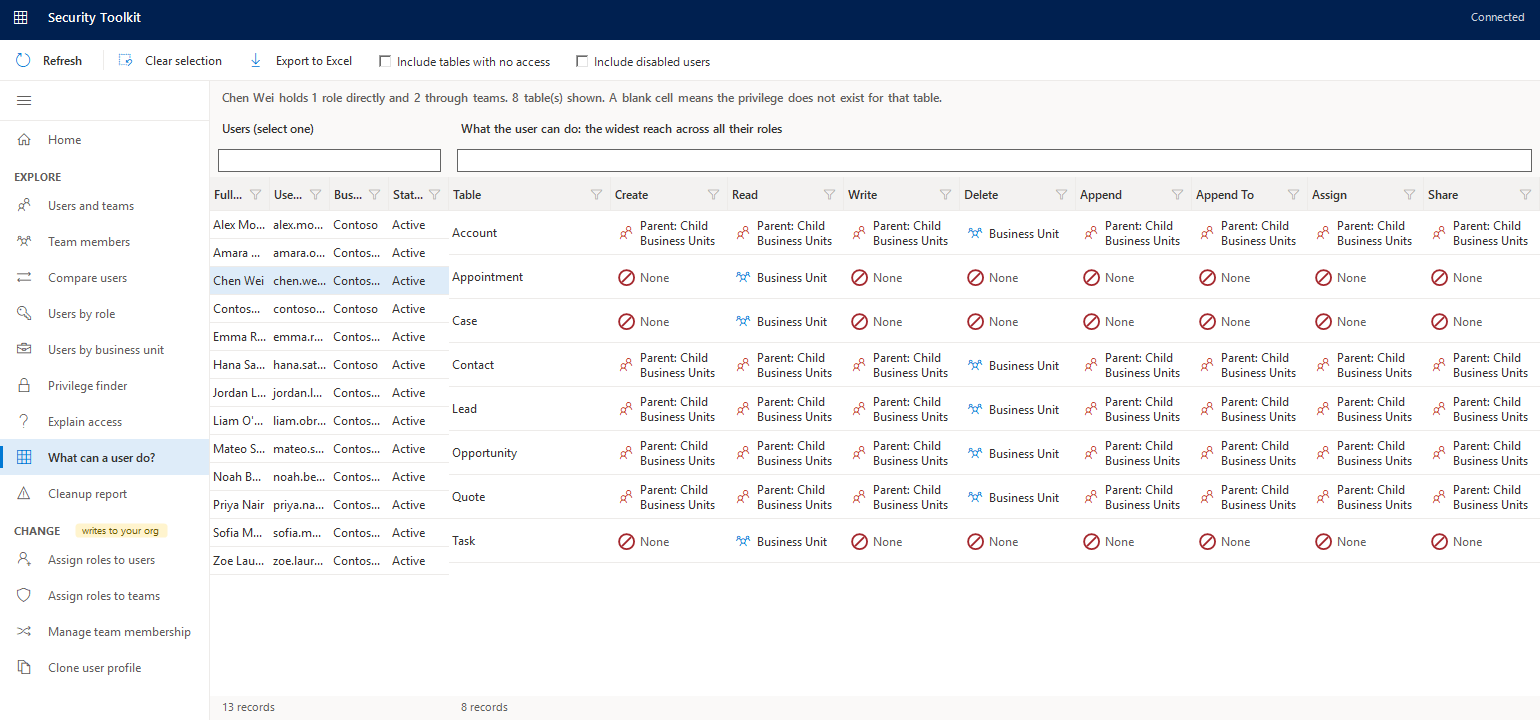
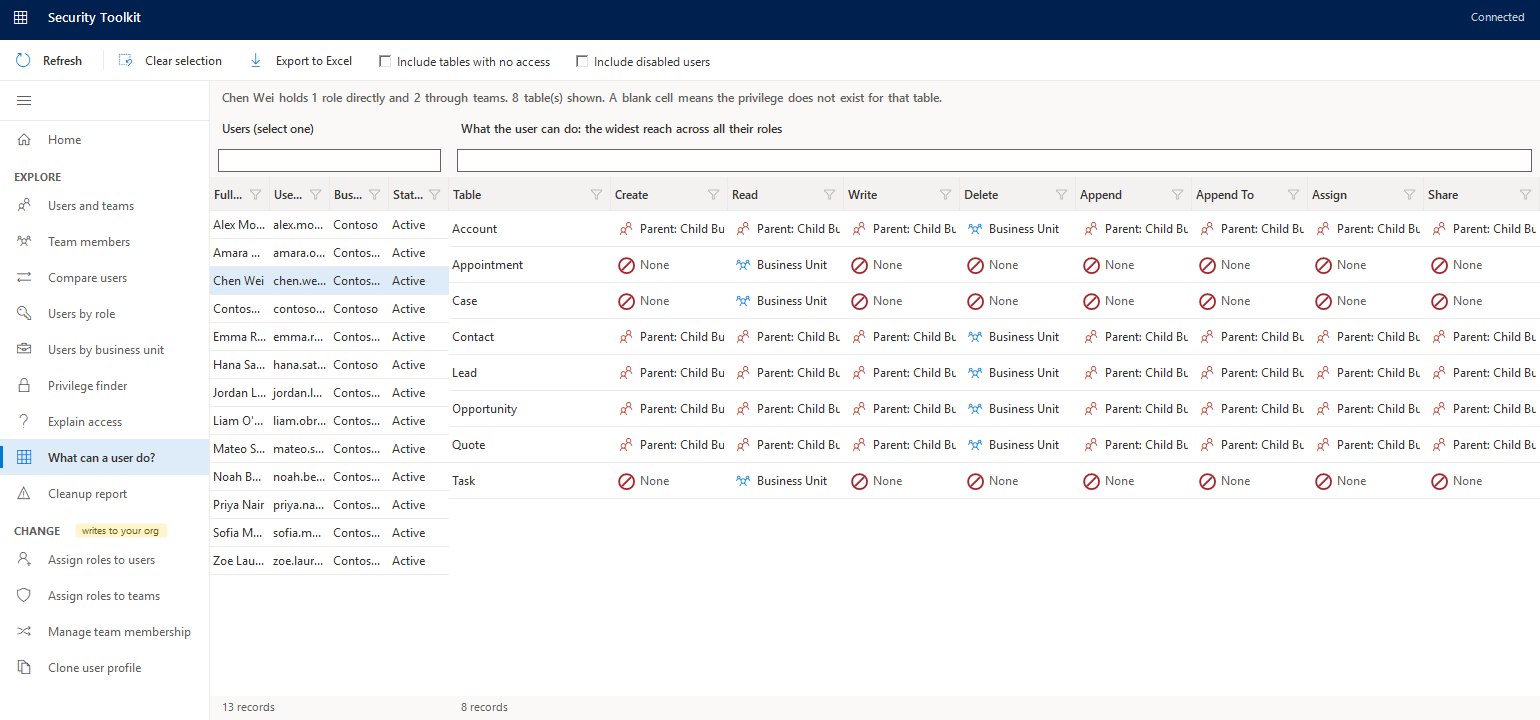
What can a user do?: one-line cells clipped at the cell edge like Dynamics 365, full text in the hover tip

diff --git a/SecurityToolkit.Tests/UserAccessMatrixViewTests.cs b/SecurityToolkit.Tests/UserAccessMatrixViewTests.cs
@@ -267,7 +267,7 @@ namespace SecurityToolkit.Tests
         }
 
         [Fact]
-        public void TheLongestLabelWrapsInsideTheCell_RatherThanSpillingIntoTheNextOne()
+        public void TheLongestLabelStaysOnOneLine_AndIsClippedAtTheCellEdge()
         {
             Sta.Run(() =>
             {
@@ -277,7 +277,7 @@ namespace SecurityToolkit.Tests
                     graphics.Clear(Color.White);
                     DepthCell.Paint(graphics, new Rectangle(0, 0, 118, 44), "Parent: Child Business Units", selected: false);
 
-                    // Nothing may be drawn to the right of the 118px cell.
+                    // Nothing may spill into the next cell...
                     for (var x = 118; x < 300; x++)
                     {
                         for (var y = 0; y < 44; y++)
@@ -285,7 +285,67 @@ namespace SecurityToolkit.Tests
                             Assert.Equal(Color.White.ToArgb(), bitmap.GetPixel(x, y).ToArgb());
                         }
                     }
+
+                    // ...and the text is a single line: beside the icon, only the middle band of the cell is inked.
+                    var inked = new List<int>();
+                    for (var y = 0; y < 44; y++)
+                    {
+                        for (var x = 30; x < 118; x++)
+                        {
+                            if (bitmap.GetPixel(x, y).ToArgb() != Color.White.ToArgb()) { inked.Add(y); break; }
+                        }
+                    }
+
+                    Assert.NotEmpty(inked);
+                    Assert.True(inked.Max() - inked.Min() < 18, $"Text spans {inked.Max() - inked.Min() + 1} rows, which is more than one line.");
                 }
+            });
+        }
+
+        [Fact]
+        public void ALongLabelAndAShortOneSitOnTheSameLine()
+        {
+            Sta.Run(() =>
+            {
+                int[] Band(string word)
+                {
+                    using (var bitmap = new Bitmap(300, 36))
+                    using (var graphics = Graphics.FromImage(bitmap))
+                    {
+                        graphics.Clear(Color.White);
+                        DepthCell.Paint(graphics, new Rectangle(0, 0, 118, 36), word, selected: false);
+                        var rows = Enumerable.Range(0, 36).Where(y => Enumerable.Range(30, 88).Any(x => bitmap.GetPixel(x, y).ToArgb() != Color.White.ToArgb())).ToList();
+                        return new[] { rows.Min(), rows.Max() };
+                    }
+                }
+
+                var shortBand = Band("User");
+                var longBand = Band("Parent: Child Business Units");
+
+                Assert.InRange(Math.Abs(longBand[0] - shortBand[0]), 0, 3);
+                Assert.InRange(Math.Abs(longBand[1] - shortBand[1]), 0, 4);
+            });
+        }
+
+        [Fact]
+        public void AClippedLabel_CanStillBeReadInTheHoverTip()
+        {
+            Sta.Run(() =>
+            {
+                var grid = new FilterableGrid { BodyCellRenderer = DepthCell.Paint };
+                var form = new Form { Size = new Size(600, 300) };
+                form.Controls.Add(grid);
+                form.Show();
+                grid.SetData(new List<MatrixRow> { new MatrixRow { Table = "Account", Read = "Parent: Child Business Units" } }, "Table", "Read");
+                var data = (DataGridView)Sta.Find(grid, c => c is DataGridView);
+                var column = data.Columns.Cast<DataGridViewColumn>().First(c => c.DataPropertyName == "Read");
+                var args = (DataGridViewCellToolTipTextNeededEventArgs)Activator.CreateInstance(typeof(DataGridViewCellToolTipTextNeededEventArgs), BindingFlags.NonPublic | BindingFlags.Instance, null, new object[] { column.Index, 0, string.Empty }, null);
+
+                typeof(DataGridView).GetMethod("OnCellToolTipTextNeeded", BindingFlags.NonPublic | BindingFlags.Instance, null,
+                    new[] { typeof(DataGridViewCellToolTipTextNeededEventArgs) }, null).Invoke(data, new object[] { args });
+
+                Assert.Equal("Parent: Child Business Units", args.ToolTipText);
+                form.Dispose();
             });
         }
 
@@ -323,12 +383,12 @@ namespace SecurityToolkit.Tests
         }
 
         [Fact]
-        public void TheMatrixScreen_UsesTheCrmStyleCellsAndTallRows()
+        public void TheMatrixScreen_UsesTheCrmStyleCellsInOrdinaryRows()
         {
             Run((view, users, matrix) =>
             {
                 Assert.NotNull(matrix); // the screen opened with its grids
-                Assert.Equal(44, matrix.RowHeight);
+                Assert.Equal(36, matrix.RowHeight);
             });
         }
 

diff --git a/SecurityToolkit/Features/UserAccessMatrixFeature.cs b/SecurityToolkit/Features/UserAccessMatrixFeature.cs
@@ -45,7 +45,7 @@ namespace SecurityToolkit.Features
             {
                 // The look of the Dynamics 365 security role editor: an icon and the depth in words in every cell.
                 Grid.BodyCellRenderer = DepthCell.Paint;
-                Grid.RowHeight = 44;
+                Grid.RowHeight = 36;
                 InfoLabel.Text = "Connect to an environment to get started.";
             }
 
@@ -146,7 +146,7 @@ namespace SecurityToolkit.Features
                     Grid.SetColumnMinimumWidth("Table", 120);
                     foreach (var privilege in new[] { "Create", "Read", "Write", "Delete", "Append", "AppendTo", "Assign", "Share" })
                     {
-                        // Wide enough for an icon and "Business Unit"; the longest label wraps onto a second line.
+                        // Wide enough for an icon and "Business Unit". Longer labels are clipped at the cell edge, as in Dynamics 365.
                         Grid.SetColumnMinimumWidth(privilege, 112);
                     }
 

diff --git a/SecurityToolkit/UI/FilterableGrid.cs b/SecurityToolkit/UI/FilterableGrid.cs
@@ -98,6 +98,14 @@ namespace SecurityToolkit.UI
             _grid.SelectionChanged += (s, e) => SelectionChanged?.Invoke(this, EventArgs.Empty);
             _grid.CellPainting += PaintHeaderCell;
             _grid.CellPainting += PaintBodyCell;
+            _grid.CellToolTipTextNeeded += (s, e) =>
+            {
+                // A custom-drawn cell may clip its text at the cell edge, so the hover tip carries the whole of it.
+                if (BodyCellRenderer != null && e.RowIndex >= 0 && e.ColumnIndex >= 0 && string.IsNullOrEmpty(e.ToolTipText))
+                {
+                    e.ToolTipText = _grid.Rows[e.RowIndex].Cells[e.ColumnIndex].Value as string ?? string.Empty;
+                }
+            };
             _grid.ColumnHeaderMouseClick += OnHeaderClick;
 
             // The last control added is laid out first: the search box on top, the footer at the bottom.

diff --git a/SecurityToolkit/UI/DepthCell.cs b/SecurityToolkit/UI/DepthCell.cs
@@ -57,7 +57,7 @@ namespace SecurityToolkit.UI
 
             var textBounds = new Rectangle(iconBounds.Right + Gap, bounds.Top, Math.Max(0, bounds.Right - iconBounds.Right - Gap - 4), bounds.Height);
             TextRenderer.DrawText(g, text, Theme.FontRegular, textBounds, icon == Icon.None ? Theme.TextSecondary : Theme.TextPrimary,
-                TextFormatFlags.WordBreak | TextFormatFlags.VerticalCenter | TextFormatFlags.Left | TextFormatFlags.NoPadding);
+                TextFormatFlags.VerticalCenter | TextFormatFlags.Left | TextFormatFlags.NoPadding | TextFormatFlags.SingleLine);
             return true;
         }
 
